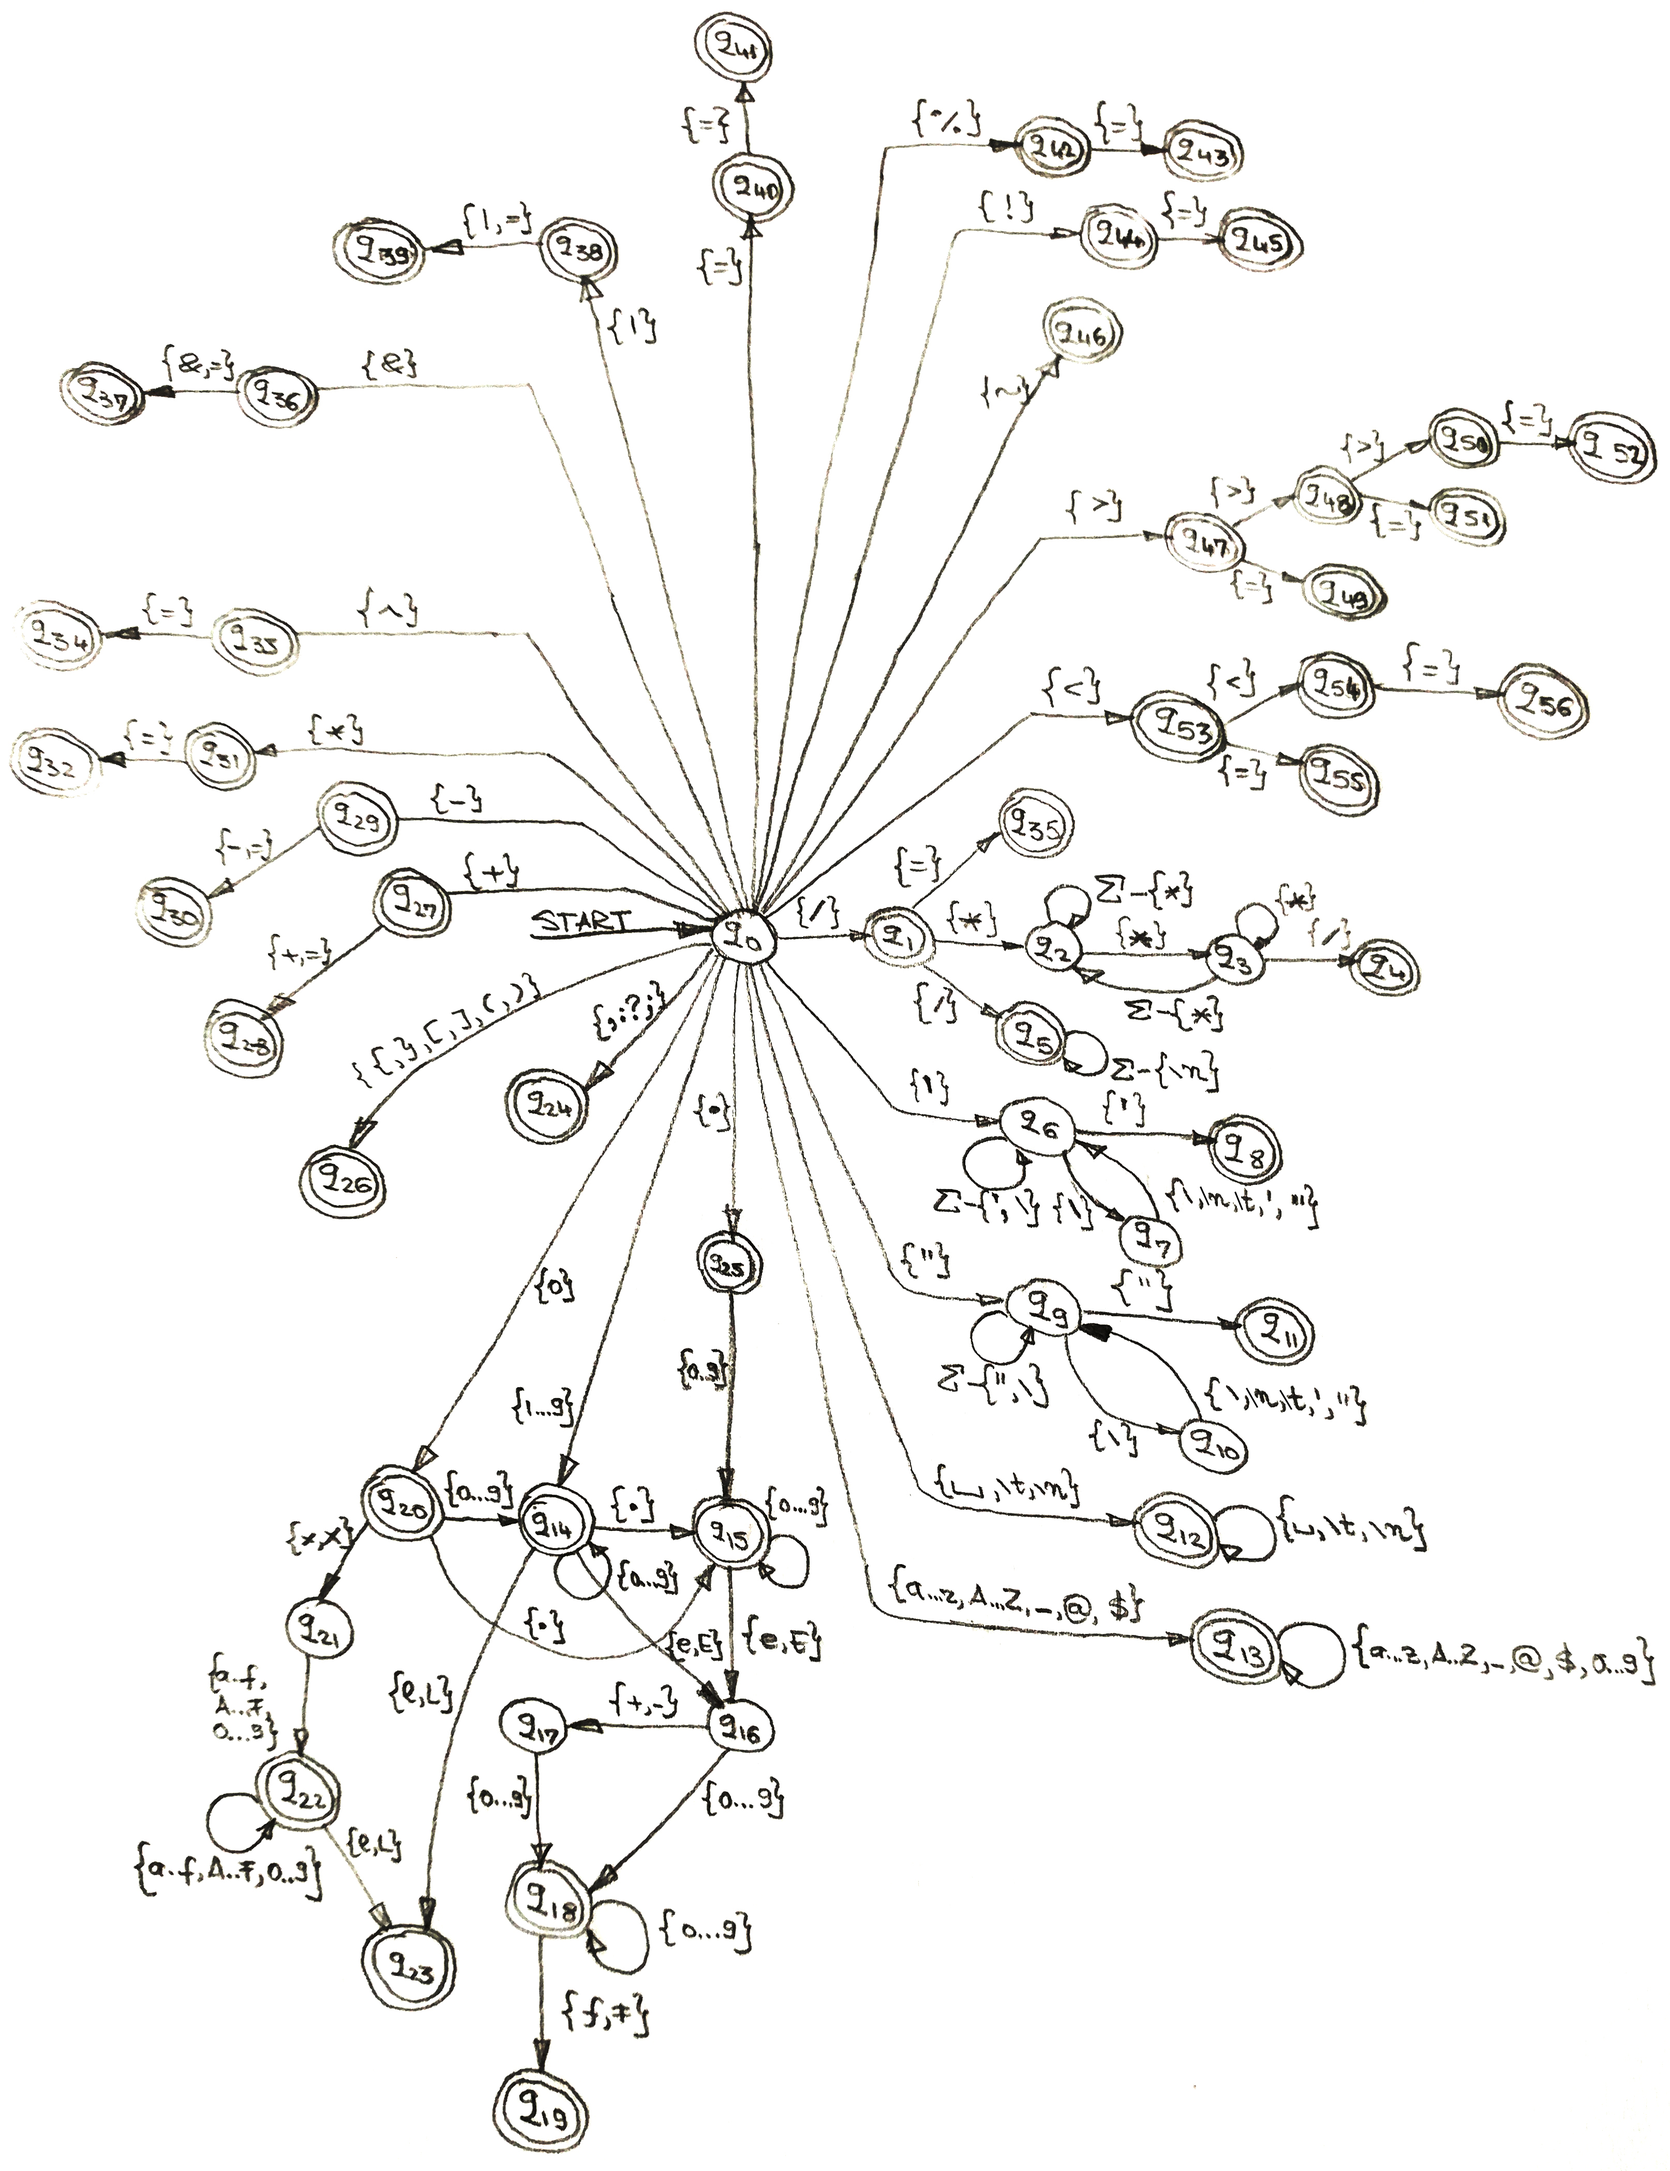
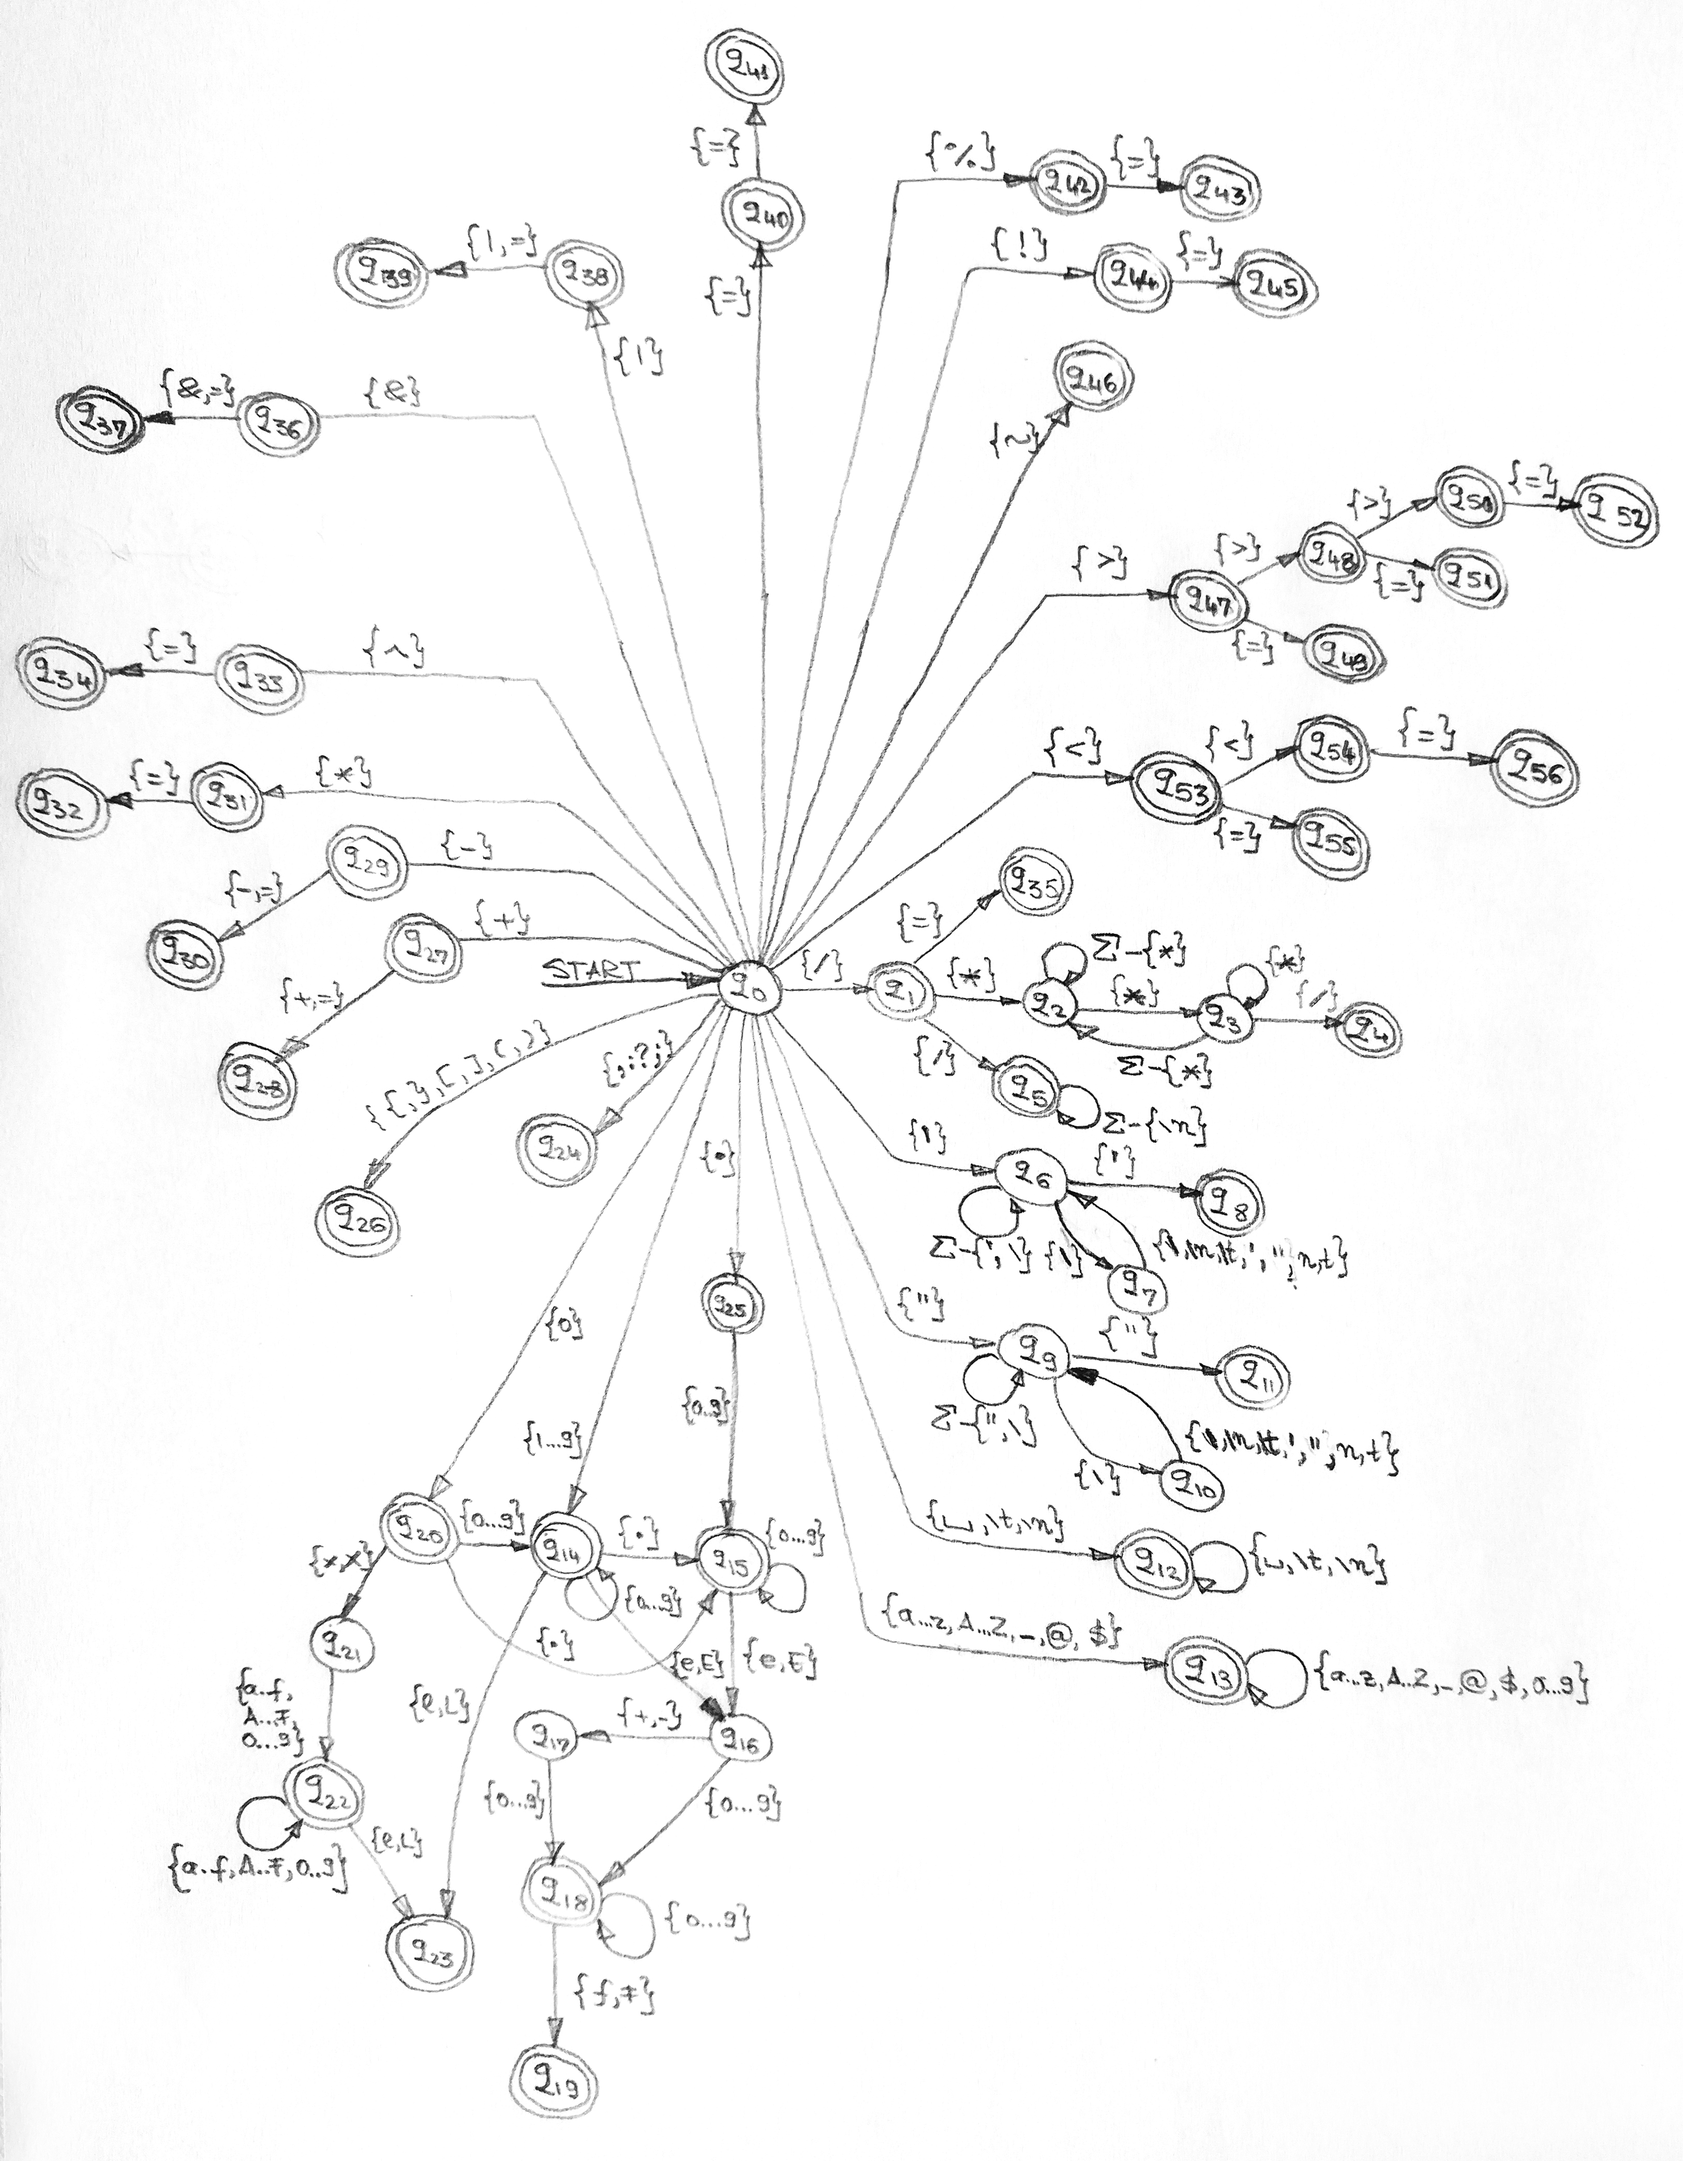
refactored

diff --git a/src/lexer.cpp b/src/lexer.cpp
@@ -5,7 +5,7 @@ LEXER_START
 
 Lexer::Lexer(const in_stream_type& input_stream,
              const GrammarIdentifiers<char_type>& grammar_identifiers) : crt_stream_(input_stream),
-                                                                         grammar_symbols_(new GrammarIdentifiers<char_type>), crt_position_(0),
+                                                                         grammar_symbols_(new GrammarIdentifiers<char_type>), crt_position_(0), crt_line_(0),
                                                                          tokens_string_table_(new TokenStringTable<char_type>)
 {
   const char letters_lwr[]       = "abcdefghijklmnopqrstuvwxyz";
@@ -62,14 +62,14 @@ Lexer::Lexer(const in_stream_type& input_stream,
   // - Transition Rules for Character literals
   AddTransition(0, '\'', 6);
   AddTransition(6, '\\', 7);
-  AddTransition(7, "\\\n\t\"\'", 5, 6);
+  AddTransition(7, "\\\n\t\"\'nt", 7, 6);
   AddTransition(6, all_characters, sizeof(all_characters) - 1, "\'\\", 2, 6);
   AddTransition(6, '\'', 8);
 
   // - Transition Rules for String literals
   AddTransition(0, '\"', 9);
   AddTransition(9, '\\', 10);
-  AddTransition(10, "\\\n\t\"\'", 5, 9);
+  AddTransition(10, "\\\n\t\"\'nt", 7, 9);
   AddTransition(9, all_characters, sizeof(all_characters) - 1, "\"\\", 2, 9);
   AddTransition(9, '\"', 11);
 
@@ -180,6 +180,9 @@ Token<Lexer::char_type> Lexer::GetToken()
   {
     ++crt_position_;
 
+    if (crt_character == '\n')
+      ++crt_line_;
+
     crt_transition.second = crt_character;
 
     my_crt_position = delta_states_mapping_qd_.find(crt_transition);    // find the current state from the crt_transition
@@ -199,6 +202,9 @@ Token<Lexer::char_type> Lexer::GetToken()
     }
     else                                                                // machine locked
     {
+      if (crt_character == '\n')
+        --crt_line_;
+
       crt_stream_.unget();                                              // put the last character back on the tape and break
       --crt_position_;
       break;

diff --git a/src/lexer.h b/src/lexer.h
@@ -43,12 +43,15 @@ public :
 
   /// Get the file position
   std::size_t GetStreamPosition() const;
+  /// Get the current line in the file
+  std::size_t GetCurrentLine() const;
   /// Gets the next available token from the specified stream object (or a list of tokens if an err is encountered)
   Token<char_type> GetToken();
 
 private:
 
   std::size_t    crt_position_;                                           ///< the position in the stream (current character processed)
+  std::size_t    crt_line_;                                               ///< the current line in the file
   in_stream_type    crt_stream_;                                          ///< the input stream that will be tokenized
   std::unique_ptr<TokenStringTable<char_type> >    tokens_string_table_;  ///< the string table for the tokens identified
   std::unique_ptr<GrammarIdentifiers<char_type> >  grammar_symbols_;      ///< the table of keywords for the grammar
@@ -62,6 +65,11 @@ inline Lexer::~Lexer()
 inline std::size_t Lexer::GetStreamPosition() const
 {
   return crt_position_;
+}
+
+inline std::size_t Lexer::GetCurrentLine() const
+{
+  return crt_line_;
 }
 
 

diff --git a/lexer_launcher.cpp b/lexer_launcher.cpp
@@ -93,8 +93,8 @@ int main(int argc, char** argv)
 
     if (token_identifier == lex::UNRECOGNIZED_ERROR)
     {
-      std::cout << "Lexical analysis error - Pos No: \n";
-      output_file_stream << "Lexical analysis error - Pos No: " << language_scanner->GetStreamPosition() << std::endl;
+      std::cout << "Lexical analysis error - Line No: " << (language_scanner->GetCurrentLine() + 1) << " - Stream Pos No:" << language_scanner->GetStreamPosition() << std::endl;
+      output_file_stream << "Lexical analysis error - Line No: " << (language_scanner->GetCurrentLine() + 1) << " - Stream Pos No:" << language_scanner->GetStreamPosition() << std::endl;
     }
     else
     {
